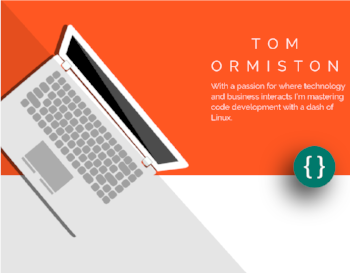
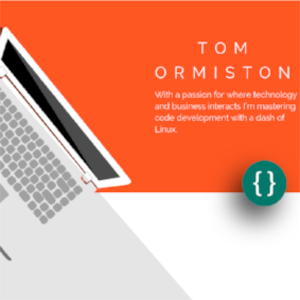
add landingpage and modify SEO image

diff --git a/index.html b/index.html
@@ -38,7 +38,7 @@
         <meta property="og:type" content="article" />
         <meta property="og:title" content="Tom Ormiston" />
         <meta property="og:description" content="With a passion for where technology and business interacts." />
-        <meta property="og:image" content="https://appijumbo.github.io/landingPage/img/facebookImg.png" />  
+        <meta property="og:image" content="https://appijumbo.github.io/landingPage/img/landingPage_350x350.jpg" />  
        
         <!-- STYLESHEETS  -->
         <link rel="stylesheet" href="./css/style.css">
@@ -194,6 +194,8 @@
     <section class="codeExamplesBox">
     
         <a id="webLink1" class="appSize" href="https://github.com/appijumbo/CSC" alt="toastmaster club site built in Jekyll" target="_blank"></a>
+        
+        <a id="webLink5" class="appSize" href="https://github.com/appijumbo/landingPage" alt="SEO readme" target="_blank"></a>
         
         <a id="webLink2" class="appSize" href="https://github.com/appijumbo/SEO" alt="SEO readme" target="_blank"></a>
         

diff --git a/css/style.css b/css/style.css
@@ -1171,6 +1171,12 @@ h4{
     background-size: contain;
 }
 
+#webLink5{ 
+    background: url("../img/landingPage_350x350.jpg");
+    background-size: contain;
+}
+
+
 /*********  app links  *********/
 
 #appLink2{ 
@@ -1206,30 +1212,6 @@ h4{
     background: url("../img/wikiview_350x350.jpg");
     background-size: contain;
 }
-
-
-
-/**********   JS 8-bit Games    ********/
-
-#gameLink1{
-    background: url("../img/pong_350x350.jpeg");
-    background-size: contain;
-}
-
-
-#gameLink2{
-    background: url("../img/spaceInv_350x350.jpg");
-    background-size: contain;
-}
-
-
-#gameLink3{
-    background: url("../img/snake_350x350.jpeg");
-    background-size: contain;
-}
-
-
-
 
 
 
